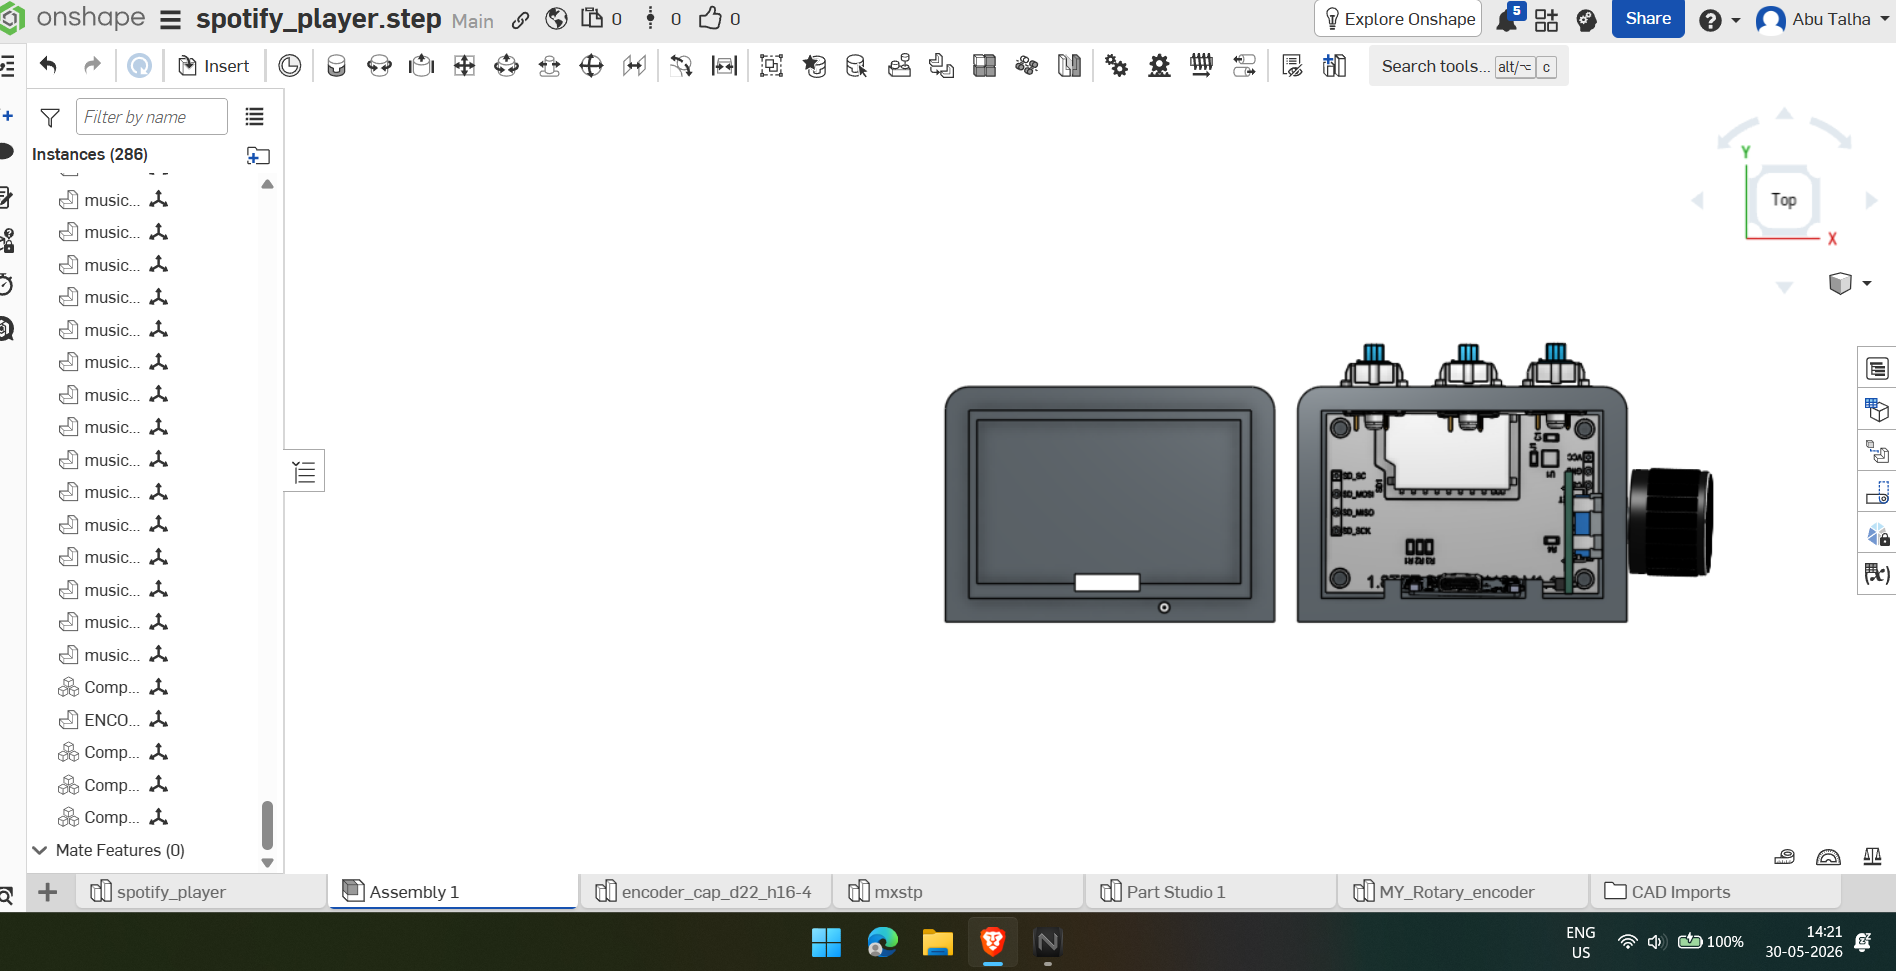
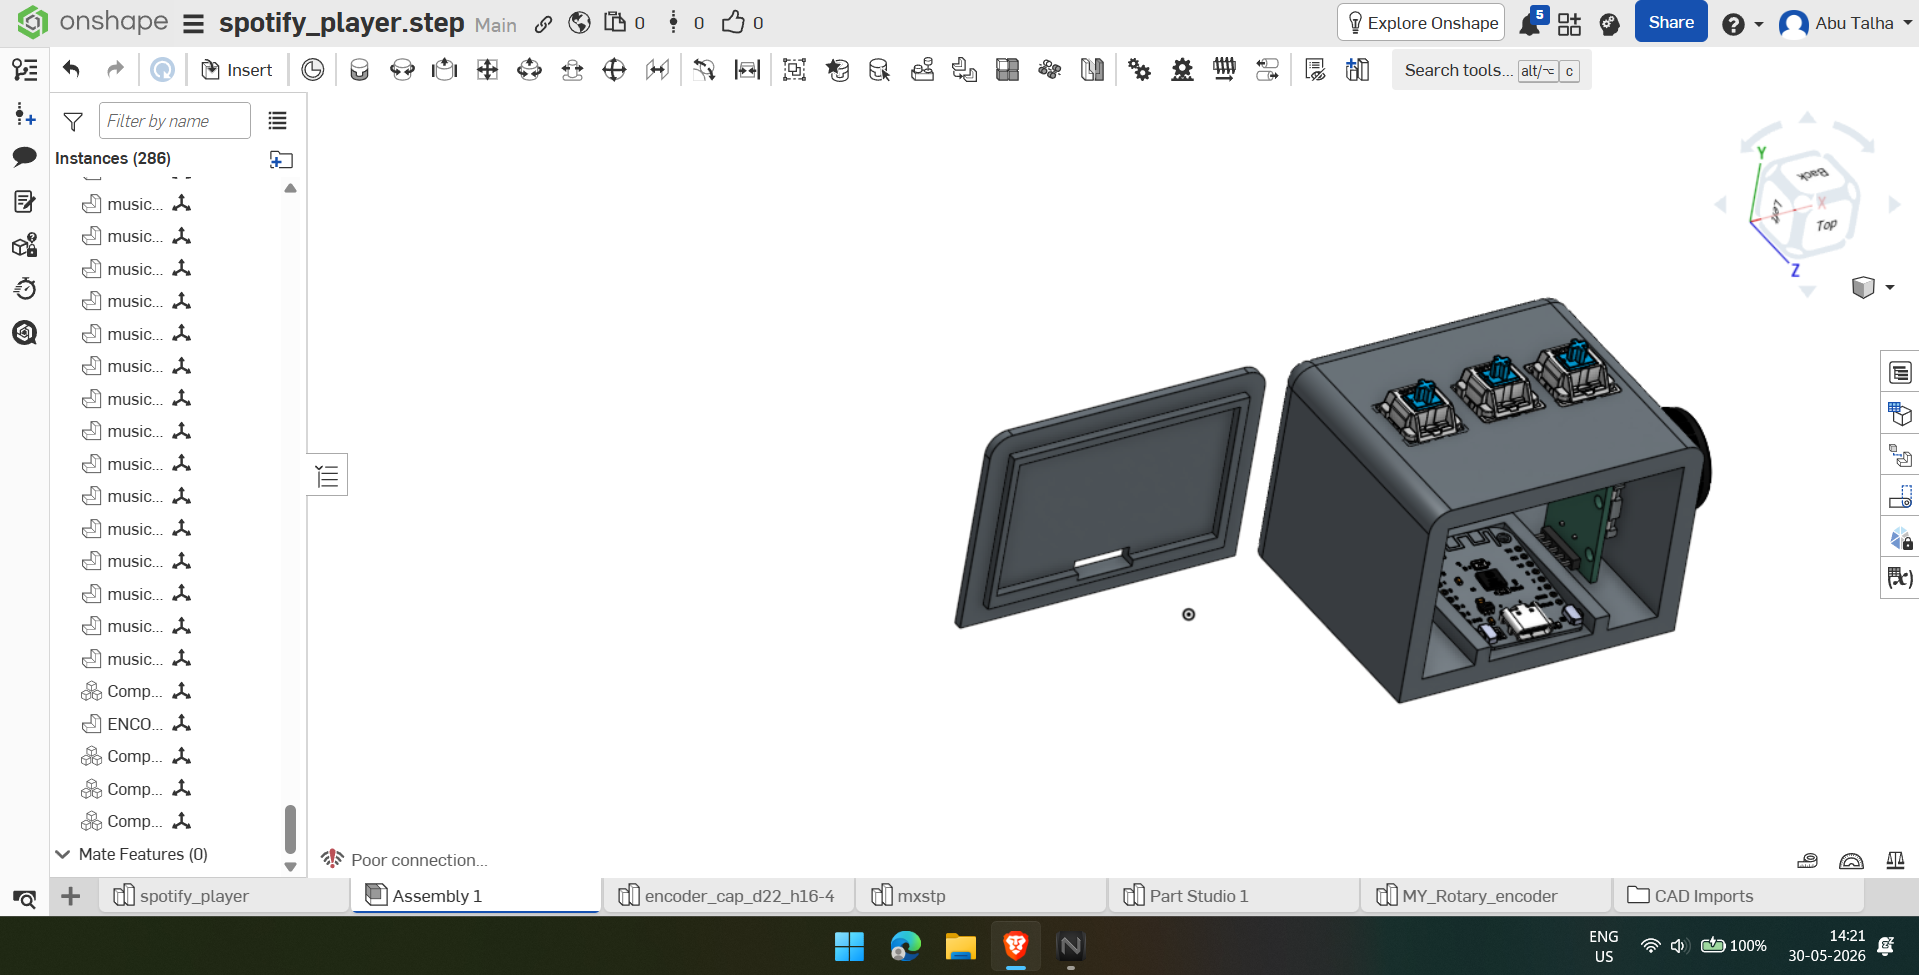
Completed

diff --git a/readme.md b/readme.md
@@ -56,6 +56,16 @@ A physical Spotify controller built with an ESP32-C3 and a 2.8" ILI9341 TFT disp
 | KEY-3 | GPIO 8 | Skip track |
 | All GND pins | GND | Common ground |
 
+#### Rotary encoder -> ESP32
+
+| Encoder | GPIO |
+|---|---|
+| A (CLK)| D10 |
+| B (DT) |   RX |
+| C      |      GND |
+| S1     |      TX |
+| S2     |       GND|
+
 
 ---
 
@@ -118,11 +128,11 @@ tft.write("by YOUR NAME");
 
 ## CAD / Case
 
-The case is designed in Fusion 360. The lid is secured with 4× M3 heat set inserts pressed into the print using a soldering iron tip, then fastened with M3 screws. 
+The case is designed in Fusion 360 and later was edited in onshape. The lid is secured with 4× M3 heat set inserts pressed into the print using a soldering iron tip, then fastened with M3 screws. 
 
 
-![CAD](screenshots/cad.png)
-
+![CAD](screenshots/cad1.png)
+![CAD](screenshots/cad2.png)
 
 
 ---
